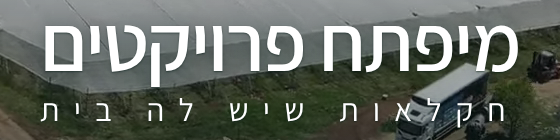
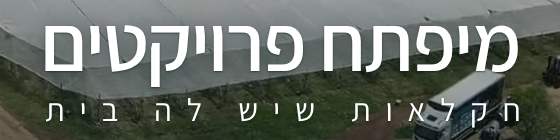
Home headline: align the slogan to the letters' ink, not their boxes, so its first and last letters sit exactly under the name's
Claude-Session: https://claude.ai/code/session_01WrmsvRyJ93fFH21GriD6gf

diff --git a/greenhouse-brand/website/public/assets/site.js b/greenhouse-brand/website/public/assets/site.js
@@ -425,11 +425,19 @@
 (function () {
   var h = document.querySelector(".hero-os h1"); if (!h) return;
   var a = h.querySelector(".h1-a"), b = h.querySelector(".h1-b"); if (!a || !b) return;
+  var cx = document.createElement("canvas").getContext("2d");
   function ink(el) {
     var r = document.createRange(), L = 1e9, R = -1e9, w = document.createTreeWalker(el, NodeFilter.SHOW_TEXT), t;
     while ((t = w.nextNode())) {
       if (t.parentElement.closest(".sr")) continue;
-      for (var i = 0; i < t.length; i++) { if (/\s/.test(t.data[i])) continue; r.setStart(t, i); r.setEnd(t, i + 1); var q = r.getBoundingClientRect(); if (q.width) { if (q.left < L) L = q.left; if (q.right > R) R = q.right; } }
+      var cs = getComputedStyle(t.parentElement), rtl = cs.direction === "rtl";
+      cx.font = cs.fontStyle + " " + cs.fontWeight + " " + cs.fontSize + " " + cs.fontFamily;
+      for (var i = 0; i < t.length; i++) {
+        if (/\s/.test(t.data[i])) continue; r.setStart(t, i); r.setEnd(t, i + 1); var q = r.getBoundingClientRect(); if (!q.width) continue;
+        // the letter's ink, not its box: a glyph's box includes side bearings and the letter spacing, which Chrome and Safari put on its right in both directions
+        var m = cx.measureText(t.data[i]), o = q.left, l = o - m.actualBoundingBoxLeft, rr = o + m.actualBoundingBoxRight;
+        if (l < L) L = l; if (rr > R) R = rr;
+      }
     }
     return R > L ? [L, R] : null;
   }

diff --git a/greenhouse-brand/website/src/assets/site.js b/greenhouse-brand/website/src/assets/site.js
@@ -425,11 +425,19 @@
 (function () {
   var h = document.querySelector(".hero-os h1"); if (!h) return;
   var a = h.querySelector(".h1-a"), b = h.querySelector(".h1-b"); if (!a || !b) return;
+  var cx = document.createElement("canvas").getContext("2d");
   function ink(el) {
     var r = document.createRange(), L = 1e9, R = -1e9, w = document.createTreeWalker(el, NodeFilter.SHOW_TEXT), t;
     while ((t = w.nextNode())) {
       if (t.parentElement.closest(".sr")) continue;
-      for (var i = 0; i < t.length; i++) { if (/\s/.test(t.data[i])) continue; r.setStart(t, i); r.setEnd(t, i + 1); var q = r.getBoundingClientRect(); if (q.width) { if (q.left < L) L = q.left; if (q.right > R) R = q.right; } }
+      var cs = getComputedStyle(t.parentElement), rtl = cs.direction === "rtl";
+      cx.font = cs.fontStyle + " " + cs.fontWeight + " " + cs.fontSize + " " + cs.fontFamily;
+      for (var i = 0; i < t.length; i++) {
+        if (/\s/.test(t.data[i])) continue; r.setStart(t, i); r.setEnd(t, i + 1); var q = r.getBoundingClientRect(); if (!q.width) continue;
+        // the letter's ink, not its box: a glyph's box includes side bearings and the letter spacing, which Chrome and Safari put on its right in both directions
+        var m = cx.measureText(t.data[i]), o = q.left, l = o - m.actualBoundingBoxLeft, rr = o + m.actualBoundingBoxRight;
+        if (l < L) L = l; if (rr > R) R = rr;
+      }
     }
     return R > L ? [L, R] : null;
   }

diff --git a/greenhouse-brand/website/public/he/about.html b/greenhouse-brand/website/public/he/about.html
@@ -108,6 +108,6 @@
     <p class="small rights">© 2026 מיפתח פרויקטים. כל הזכויות שמורות.</p>
   </div>
 </footer>
-<script src="../assets/site.js?v=50974464" defer></script>
+<script src="../assets/site.js?v=5f13617b" defer></script>
 </body>
 </html>

diff --git a/greenhouse-brand/website/public/he/banana-net-houses.html b/greenhouse-brand/website/public/he/banana-net-houses.html
@@ -112,6 +112,6 @@
     <p class="small rights">© 2026 מיפתח פרויקטים. כל הזכויות שמורות.</p>
   </div>
 </footer>
-<script src="../assets/site.js?v=50974464" defer></script>
+<script src="../assets/site.js?v=5f13617b" defer></script>
 </body>
 </html>

diff --git a/greenhouse-brand/website/public/he/contact.html b/greenhouse-brand/website/public/he/contact.html
@@ -124,6 +124,6 @@
     <p class="small rights">© 2026 מיפתח פרויקטים. כל הזכויות שמורות.</p>
   </div>
 </footer>
-<script src="../assets/site.js?v=50974464" defer></script>
+<script src="../assets/site.js?v=5f13617b" defer></script>
 </body>
 </html>

diff --git a/greenhouse-brand/website/public/he/how-we-build.html b/greenhouse-brand/website/public/he/how-we-build.html
@@ -102,6 +102,6 @@
     <p class="small rights">© 2026 מיפתח פרויקטים. כל הזכויות שמורות.</p>
   </div>
 </footer>
-<script src="../assets/site.js?v=50974464" defer></script>
+<script src="../assets/site.js?v=5f13617b" defer></script>
 </body>
 </html>

diff --git a/greenhouse-brand/website/public/he/index.html b/greenhouse-brand/website/public/he/index.html
@@ -154,6 +154,6 @@
     <p class="small rights">© 2026 מיפתח פרויקטים. כל הזכויות שמורות.</p>
   </div>
 </footer>
-<script src="../assets/site.js?v=50974464" defer></script>
+<script src="../assets/site.js?v=5f13617b" defer></script>
 </body>
 </html>

diff --git a/greenhouse-brand/website/public/he/net-houses.html b/greenhouse-brand/website/public/he/net-houses.html
@@ -115,6 +115,6 @@
     <p class="small rights">© 2026 מיפתח פרויקטים. כל הזכויות שמורות.</p>
   </div>
 </footer>
-<script src="../assets/site.js?v=50974464" defer></script>
+<script src="../assets/site.js?v=5f13617b" defer></script>
 </body>
 </html>

diff --git a/greenhouse-brand/website/public/he/orchard-hail-nets.html b/greenhouse-brand/website/public/he/orchard-hail-nets.html
@@ -112,6 +112,6 @@
     <p class="small rights">© 2026 מיפתח פרויקטים. כל הזכויות שמורות.</p>
   </div>
 </footer>
-<script src="../assets/site.js?v=50974464" defer></script>
+<script src="../assets/site.js?v=5f13617b" defer></script>
 </body>
 </html>

diff --git a/greenhouse-brand/website/public/he/projects.html b/greenhouse-brand/website/public/he/projects.html
@@ -112,6 +112,6 @@
     <p class="small rights">© 2026 מיפתח פרויקטים. כל הזכויות שמורות.</p>
   </div>
 </footer>
-<script src="../assets/site.js?v=50974464" defer></script>
+<script src="../assets/site.js?v=5f13617b" defer></script>
 </body>
 </html>

diff --git a/greenhouse-brand/website/public/he/turnkey-farms.html b/greenhouse-brand/website/public/he/turnkey-farms.html
@@ -107,6 +107,6 @@
     <p class="small rights">© 2026 מיפתח פרויקטים. כל הזכויות שמורות.</p>
   </div>
 </footer>
-<script src="../assets/site.js?v=50974464" defer></script>
+<script src="../assets/site.js?v=5f13617b" defer></script>
 </body>
 </html>

diff --git a/greenhouse-brand/website/public/he/accessibility.html b/greenhouse-brand/website/public/he/accessibility.html
@@ -73,6 +73,6 @@
     <p class="small rights">© 2026 מיפתח פרויקטים. כל הזכויות שמורות.</p>
   </div>
 </footer>
-<script src="../assets/site.js?v=50974464" defer></script>
+<script src="../assets/site.js?v=5f13617b" defer></script>
 </body>
 </html>
